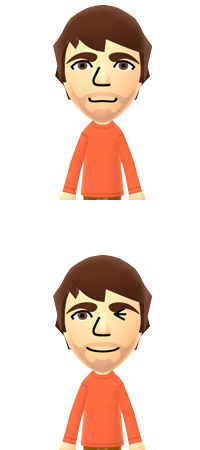
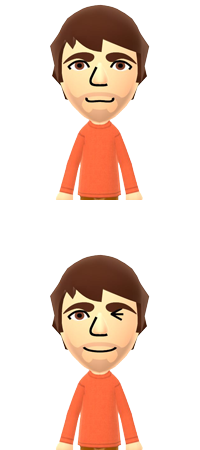
added mii images

diff --git a/src/scss/components/_footer.scss b/src/scss/components/_footer.scss
@@ -111,5 +111,50 @@
 		&:hover {
 			background-position: 60% -120px;
 		}
+
+		.thanksgiving & {
+			background-image: url('../images/mii-thanksgiving.png');
+			background-position: 1px 5px;
+
+			&:hover {
+				background-position: 1px -120px;
+			}
+		}
+
+		.st-pattys & {
+			background-image: url('../images/mii-st-pattys.png');
+			background-position: 0 5px;
+
+			&:hover {
+				background-position: 0 -120px;
+			}
+		}
+
+		.cinco-de-mayo & {
+			background-image: url('../images/mii-cinco-de-mayo.png');
+			background-position: 0 5px;
+
+			&:hover {
+				background-position: 0 -120px;
+			}
+		}
+
+		.easter & {
+			background-image: url('../images/mii-easter.png');
+			background-position: 0 5px;
+
+			&:hover {
+				background-position: 0 -120px;
+			}
+		}
+
+		.halloween & {
+			background-image: url('../images/mii-halloween.png');
+			background-position: 0 5px;
+
+			&:hover {
+				background-position: 0 -120px;
+			}
+		}
 	}
 }

diff --git a/gulpfile.js b/gulpfile.js
@@ -25,7 +25,7 @@ gulp.task('js', function() {
 			module: {
 				loaders: [{
 					loader: 'babel-loader',
-					exlude: /node_modules/,
+					exclude: /node_modules/,
 					query: {
 						plugins: ['transform-runtime'],
 						presets: ['es2015']

diff --git a/src/js/main.js b/src/js/main.js
@@ -33,4 +33,5 @@ $(document).ready(function() {
 	
 	grid();
 	konami();
+	$('body').addClass('thanksgiving');
 });
